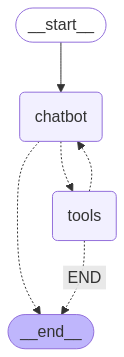
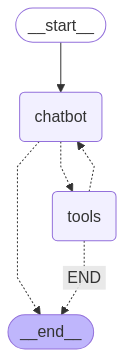
fix: add env for improved silence detection

diff --git a/modules/langgraph/agents/chatbot.py b/modules/langgraph/agents/chatbot.py
@@ -20,14 +20,17 @@ if os.environ.get('OPENAI_MODEL'):
     )
 elif os.environ.get('LLAMMA_CPP_MODEL_PATH'):
     llm = ChatLlamaCpp(
-        temperature=0.5,
+        chat_format="chatml-function-calling",
+        min_p=0.0,
+        top_p=0.95,
+        temperature=1.0,
+        top_k=64,
+        repeat_penalty=1.0,
         model_path=os.environ.get('LLAMMA_CPP_MODEL_PATH'),
         n_ctx=2048,
-        n_gpu_layers=4,
+        n_gpu_layers=0,
         n_batch=1000,  # Should be between 1 and n_ctx, consider the amount of VRAM in your GPU.
-        max_tokens=256,
-        repeat_penalty=1.5,
-        top_p=0.5,
+        max_tokens=256*2,
         disable_streaming=True,
     )
 
@@ -66,7 +69,7 @@ def chatbot(state: State, store: BaseStore):
                             f"\nCurrent time: {os.popen('date').read().strip()}"
                         )
                     },
-                    *state["messages"][:-3]
+                    *state["messages"],
                 ])
             ]
         }

diff --git a/main.py b/main.py
@@ -54,6 +54,7 @@ if __name__ == '__main__':
         on_wakeword_detection_start=on_wakeword_detection_start,
         wake_word_buffer_duration=1,
         device=getUseCuda("USE_CUDA_STT"),
+        silero_deactivity_detection=os.getenv('SILERO_DEACTIVATION_DETECTION', 'false') == 'true',
         ) as recorder:
 
         while (True):

diff --git a/readme.md b/readme.md
@@ -174,7 +174,7 @@ python -m pip install llama-cpp-python --no-cache-dir --prefer-binary --extra-in
 ```
 Model option: [Gemma-2-2B-Q6](https://huggingface.co/bartowski/gemma-2-2b-it-GGUF/blob/main/gemma-2-2b-it-Q6_K_L.gguf)
 
-Unnoficial support for pre-built wheels (up to version 3.8, supports gemma3)
+Unnoficial support for pre-built wheels (up to version 3.8, supports gemma3 non-multi-modal)
 ```bash
 python -m pip install https://github.com/oobabooga/llama-cpp-python-cuBLAS-wheels/releases/download/textgen-webui/llama_cpp_python_cuda-0.3.8+cu124-cp311-cp311-linux_x86_64.whl
 ```